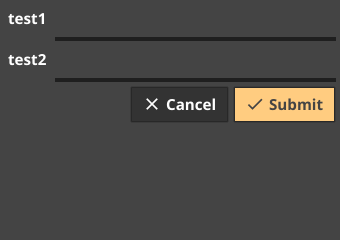
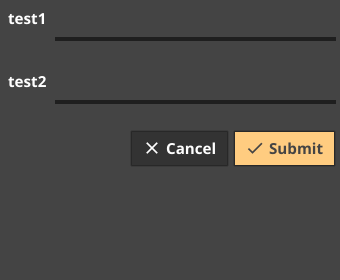
Initial form hint and error text shown
Fixes #1269

diff --git a/widget/form_test.go b/widget/form_test.go
@@ -95,44 +95,54 @@ func TestForm_Renderer(t *testing.T) {
 	defer w.Close()
 
 	test.AssertRendersToMarkup(t, `
-		<canvas padded size="214x127">
+		<canvas padded size="214x171">
 			<content>
-				<widget pos="4,4" size="206x119" type="*widget.Form">
-					<container size="206x78">
-						<widget size="47x37" type="*widget.Label">
+				<widget pos="4,4" size="206x163" type="*widget.Form">
+					<container size="206x122">
+						<widget size="47x59" type="*widget.Label">
 							<text alignment="trailing" bold pos="4,4" size="39x21">test1</text>
 						</widget>
-						<widget pos="51,0" size="155x37" type="*widget.Entry">
-							<rectangle fillColor="shadow" pos="0,33" size="155x4"/>
-							<widget pos="4,4" size="147x29" type="*widget.Scroll">
-								<widget size="147x29" type="*widget.entryContent">
-									<widget size="147x29" type="*widget.textProvider">
-										<text color="placeholder" pos="4,4" size="139x21"></text>
-									</widget>
-									<widget size="147x29" type="*widget.textProvider">
-										<text pos="4,4" size="139x21"></text>
+						<container pos="51,0" size="155x59">
+							<widget size="155x37" type="*widget.Entry">
+								<rectangle fillColor="shadow" pos="0,33" size="155x4"/>
+								<widget pos="4,4" size="147x29" type="*widget.Scroll">
+									<widget size="147x29" type="*widget.entryContent">
+										<widget size="147x29" type="*widget.textProvider">
+											<text color="placeholder" pos="4,4" size="139x21"></text>
+										</widget>
+										<widget size="147x29" type="*widget.textProvider">
+											<text pos="4,4" size="139x21"></text>
+										</widget>
 									</widget>
 								</widget>
 							</widget>
-						</widget>
-						<widget pos="0,41" size="47x37" type="*widget.Label">
+							<container pos="0,41" size="155x18">
+								<text color="placeholder" pos="8,0" size="0x0" textSize="0"></text>
+							</container>
+						</container>
+						<widget pos="0,63" size="47x59" type="*widget.Label">
 							<text alignment="trailing" bold pos="4,4" size="39x21">test2</text>
 						</widget>
-						<widget pos="51,41" size="155x37" type="*widget.Entry">
-							<rectangle fillColor="shadow" pos="0,33" size="155x4"/>
-							<widget pos="4,4" size="147x29" type="*widget.Scroll">
-								<widget size="147x29" type="*widget.entryContent">
-									<widget size="147x29" type="*widget.textProvider">
-										<text color="placeholder" pos="4,4" size="139x21"></text>
-									</widget>
-									<widget size="147x29" type="*widget.textProvider">
-										<text pos="4,4" size="139x21"></text>
+						<container pos="51,63" size="155x59">
+							<widget size="155x37" type="*widget.Entry">
+								<rectangle fillColor="shadow" pos="0,33" size="155x4"/>
+								<widget pos="4,4" size="147x29" type="*widget.Scroll">
+									<widget size="147x29" type="*widget.entryContent">
+										<widget size="147x29" type="*widget.textProvider">
+											<text color="placeholder" pos="4,4" size="139x21"></text>
+										</widget>
+										<widget size="147x29" type="*widget.textProvider">
+											<text pos="4,4" size="139x21"></text>
+										</widget>
 									</widget>
 								</widget>
 							</widget>
-						</widget>
+							<container pos="0,41" size="155x18">
+								<text color="placeholder" pos="8,0" size="0x0" textSize="0"></text>
+							</container>
+						</container>
 					</container>
-					<widget pos="0,82" size="206x37" type="*widget.Box">
+					<widget pos="0,126" size="206x37" type="*widget.Box">
 						<spacer size="0x0"/>
 						<widget size="99x37" type="*widget.Button">
 							<widget pos="2,2" size="95x33" type="*widget.Shadow">
@@ -195,7 +205,7 @@ func TestForm_ChangeTheme(t *testing.T) {
 		},
 		OnSubmit: func() {}, OnCancel: func() {}}
 	w := test.NewWindow(form)
-	w.Resize(fyne.NewSize(340, 240))
+	w.Resize(fyne.NewSize(340, 280))
 	defer w.Close()
 
 	test.AssertImageMatches(t, "form/theme_initial.png", w.Canvas().Capture())
@@ -204,6 +214,28 @@ func TestForm_ChangeTheme(t *testing.T) {
 		form.Refresh()
 		test.AssertImageMatches(t, "form/theme_changed.png", w.Canvas().Capture())
 	})
+}
+
+func TestForm_Hints(t *testing.T) {
+	app := test.NewApp()
+	defer test.NewApp()
+	app.Settings().SetTheme(theme.LightTheme())
+
+	entry1 := &Entry{}
+	entry2 := &Entry{Validator: validation.NewRegexp(`^\w{3}-\w{5}$`, "Input is not valid"), Text: "wrong"}
+	items := []*FormItem{
+		{Text: "First", Widget: entry1, HintText: "An entry hint"},
+		{Text: "Second", Widget: entry2},
+	}
+
+	form := &Form{Items: items, OnSubmit: func() {}, OnCancel: func() {}}
+	w := test.NewWindow(form)
+	defer w.Close()
+
+	test.AssertImageMatches(t, "form/hint_invalid.png", w.Canvas().Capture())
+
+	test.Type(entry2, "not-")
+	test.AssertImageMatches(t, "form/hint_valid.png", w.Canvas().Capture())
 }
 
 func TestForm_Validation(t *testing.T) {

diff --git a/widget/form.go b/widget/form.go
@@ -13,7 +13,11 @@ type FormItem struct {
 	Text   string
 	Widget fyne.CanvasObject
 
+	// Since: 2.0.0
+	HintText string
+
 	validationError error
+	helperOutput    *canvas.Text
 }
 
 // NewFormItem creates a new form item with the specified label text and input widget
@@ -128,14 +132,44 @@ func (f *Form) checkValidation(err error) {
 	f.submitButton.Enable()
 }
 
+func (f *Form) setUpHints(item *FormItem) fyne.CanvasObject {
+	_, ok := item.Widget.(fyne.Validatable)
+	if item.HintText == "" && !ok {
+		return item.Widget
+	}
+
+	text := canvas.NewText(item.HintText, theme.PlaceHolderColor())
+	text.TextSize = theme.CaptionTextSize()
+	text.Move(fyne.NewPos(theme.Padding()*2, 0))
+	item.helperOutput = text
+	f.updateHelperText(item)
+	return fyne.NewContainerWithLayout(layout.NewVBoxLayout(), item.Widget, fyne.NewContainerWithoutLayout(text))
+}
+
 func (f *Form) setUpValidation(widget fyne.CanvasObject, i int) {
 	if w, ok := widget.(fyne.Validatable); ok {
 		f.Items[i].validationError = w.Validate()
 		w.SetOnValidationChanged(func(err error) {
 			f.Items[i].validationError = err
 			f.checkValidation(err)
+			f.updateHelperText(f.Items[i])
 		})
 	}
+}
+
+func (f *Form) updateHelperText(item *FormItem) {
+	empty := false
+	if e, ok := item.Widget.(*Entry); ok {
+		empty = e.Text == ""
+	}
+	if item.validationError == nil || empty {
+		item.helperOutput.Text = item.HintText
+		item.helperOutput.Color = theme.PlaceHolderColor()
+	} else {
+		item.helperOutput.Text = item.validationError.Error()
+		item.helperOutput.Color = theme.ErrorColor()
+	}
+	item.helperOutput.Refresh()
 }
 
 func (f *Form) updateLabels() {
@@ -146,6 +180,7 @@ func (f *Form) updateLabels() {
 		}
 
 		l.SetText(item.Text)
+		f.updateHelperText(item)
 	}
 }
 
@@ -160,8 +195,9 @@ func (f *Form) CreateRenderer() fyne.WidgetRenderer {
 	objects := make([]fyne.CanvasObject, len(f.Items)*2)
 	for i, item := range f.Items {
 		objects[i*2] = f.createLabel(item.Text)
-		objects[i*2+1] = item.Widget
+
 		f.setUpValidation(item.Widget, i)
+		objects[i*2+1] = f.setUpHints(item)
 	}
 	f.itemGrid = fyne.NewContainerWithLayout(layout.NewFormLayout(), objects...)
 

diff --git a/theme/theme.go b/theme/theme.go
@@ -103,6 +103,11 @@ const (
 	// Since 2.0.0
 	ColorNameShadow fyne.ThemeColorName = "shadow"
 
+	// SizeNameCaptionText is the name of theme lookup for helper text size, normally smaller than regular text size.
+	//
+	// Since 2.0.0
+	SizeNameCaptionText fyne.ThemeSizeName = "helperText"
+
 	// SizeNameInlineIcon is the name of theme lookup for inline icons size.
 	//
 	// Since 2.0.0
@@ -286,6 +291,8 @@ func (t *builtinTheme) Size(s fyne.ThemeSizeName) float32 {
 		return 3
 	case SizeNameText:
 		return 14
+	case SizeNameCaptionText:
+		return 11
 	default:
 		return 0
 	}
@@ -307,6 +314,11 @@ func BackgroundColor() color.Color {
 // ButtonColor returns the theme's standard button color.
 func ButtonColor() color.Color {
 	return current().Color(ColorNameButton, currentVariant())
+}
+
+// CaptionTextSize returns the standard text size
+func CaptionTextSize() float32 {
+	return current().Size(SizeNameCaptionText)
 }
 
 // DisabledButtonColor returns the theme's disabled button color.

diff --git a/cmd/fyne_demo/tutorials/widget.go b/cmd/fyne_demo/tutorials/widget.go
@@ -273,8 +273,8 @@ func makeFormTab(_ fyne.Window) fyne.CanvasObject {
 
 	form := &widget.Form{
 		Items: []*widget.FormItem{
-			{Text: "Name", Widget: name},
-			{Text: "Email", Widget: email},
+			{Text: "Name", Widget: name, HintText: "Your full name"},
+			{Text: "Email", Widget: email, HintText: "A valid email address"},
 		},
 		OnCancel: func() {
 			fmt.Println("Cancelled")
